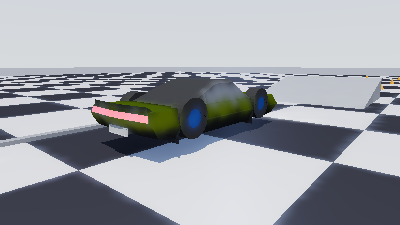
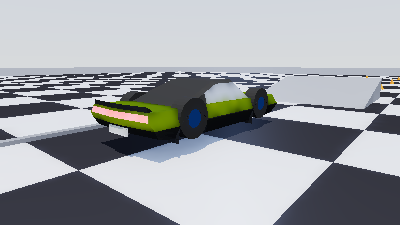
Improve Surfel GI: directional (SH) irradiance, receiving albedo, Fresnel reflections
Reported as not looking clean, against W298/SurfelGI as the reference. That
project implements GIBS (SIGGRAPH 2021); three things separated ours from it,
and the first two were outright bugs.

1. THE RECEIVING SURFACE'S ALBEDO WAS MISSING. Outgoing radiance from an
   indirect term is albedo/pi * irradiance, and ours was just irradiance/pi:

       ours        V indirect = gatherE(P,N) * INV_PI;
       ModeMatrix  lit = direct + dalb * INV_PI * E;

   So bounce light was added as a flat glow of identical colour and strength to
   every surface regardless of what it was made of. That alone reads as a wash
   over everything, and the proven CPU mirror sitting in RaytraceToggle/ had it
   right the whole time.

2. SURFELS STORED ONE FLAT RGB. GIBS stores DIRECTIONAL irradiance as L1
   spherical harmonics, 4 coefficients per channel. With a scalar the only
   directionality left is the dot(N, surfel.n) weight, so a surfel lights a
   wall and the floor beneath it identically -- exactly the uniform look over
   curved bodywork. Now projected into L1 SH on update and evaluated along the
   shading normal through the Lambert convolution (A0 = pi, A1 = 2pi/3).

   The update rays had to change with it: the projection needs a known pdf, so
   they are uniform-hemisphere (1/2pi) rather than cosine-weighted. Cosine
   samples would bake a second cosine into coefficients the convolution is
   about to apply again.
[…]

diff --git a/VehiclePhysics/Overlay/Projects/Project-Drive/Source/SurfelReference.cpp b/VehiclePhysics/Overlay/Projects/Project-Drive/Source/SurfelReference.cpp
@@ -233,11 +233,39 @@ static V DirectLight(const BVH& bvh, V P, V N, uint32_t mat, V wo){
     const vec3 e = m.Emission;
     return c + V{e.x,e.y,e.z};
 }
+static V hemiUniform(V N, float u1, float u2){ float z=u1, rr=std::sqrt(std::max(0.0f,1.0f-z*z)), th=2*PI*u2;
+    V t=norm(std::fabs(N.x)>0.9f?cross(N,{0,1,0}):cross(N,{1,0,0})); V b=cross(N,t);
+    return norm(t*(rr*std::cos(th))+b*(rr*std::sin(th))+N*z); }
 static V hemi(V N, float u1, float u2){ float r=std::sqrt(u1), th=2*PI*u2; V t=norm(std::fabs(N.x)>0.9f?cross(N,{0,1,0}):cross(N,{1,0,0})); V b=cross(N,t);
     return norm(t*(r*std::cos(th))+b*(r*std::sin(th))+N*std::sqrt(std::max(0.0f,1-u1))); }
 
 //------------------------------------------------------------------------------------------------------------------------ surfels
-struct Surfel{ V pos,n,albedo; float radius; V E{0,0,0},Enew{0,0,0}; uint32_t age=0; };
+// GIBS (SIGGRAPH 2021, the basis of the W298/SurfelGI reference) stores DIRECTIONAL irradiance per surfel as
+//    L1 spherical harmonics -- 4 coefficients per channel -- not a single RGB. That is the difference between
+//    a surfel that lights every nearby normal identically and one that lights a wall and the floor beneath it
+//    differently. With a flat value the only directionality left is the dot(N, surfel.n) weight, which is why
+//    the bounce reads as a uniform wash over curved bodywork.
+struct Sh3 { V c[4]{{0,0,0},{0,0,0},{0,0,0},{0,0,0}}; };
+inline Sh3 operator*(const Sh3& a, float k){ Sh3 r; for(int i=0;i<4;++i) r.c[i]=a.c[i]*k; return r; }
+inline Sh3 operator+(const Sh3& a, const Sh3& b){ Sh3 r; for(int i=0;i<4;++i) r.c[i]=a.c[i]+b.c[i]; return r; }
+
+struct Surfel{ V pos,n,albedo; float radius; Sh3 E, Enew; uint32_t age=0; };
+
+// Project a radiance sample arriving from direction d into L1 SH.
+inline void ShAccumulate(Sh3& sh, V d, V L, float w)
+{
+    sh.c[0] = sh.c[0] + L*(0.282095f*w);
+    sh.c[1] = sh.c[1] + L*(0.488603f*d.y*w);
+    sh.c[2] = sh.c[2] + L*(0.488603f*d.z*w);
+    sh.c[3] = sh.c[3] + L*(0.488603f*d.x*w);
+}
+
+// Evaluate irradiance along N, with the Lambert convolution (A0 = pi, A1 = 2pi/3).
+inline V ShIrradiance(const Sh3& sh, V N)
+{
+    const float A0=3.14159265f*0.282095f, A1=2.0943951f*0.488603f;
+    return sh.c[0]*A0 + sh.c[1]*(A1*N.y) + sh.c[2]*(A1*N.z) + sh.c[3]*(A1*N.x);
+}
 // Cell size is RMAX + eps so the 3x3x3 cell walk in gatherEcov cannot miss a contributing surfel.
 struct Grid{ float cell=0.701f; std::vector<std::vector<int>> cells; int nx,ny,nz; V lo;
     void build(V mn,V mx){ lo=mn; nx=std::max(1,(int)((mx.x-mn.x)/cell)+1); ny=std::max(1,(int)((mx.y-mn.y)/cell)+1); nz=std::max(1,(int)((mx.z-mn.z)/cell)+1);
@@ -305,7 +333,7 @@ int main(int argc,char**argv){
     const float RMIN=0.22f, RMAX=0.70f, RADFAC=0.055f, COVERAGE_TARGET=2.4f;
     const int   SPAWN_BUDGET=4000;
     auto radiusAt=[&](V P){ float d=len(P-cam.eye); return std::min(RMAX,std::max(RMIN,RADFAC*d)); };
-    auto gatherEcov=[&](V P,V N,float& covOut){ V e{0,0,0}; float wsum=0;
+    auto gatherEcov=[&](V P,V N,float& covOut){ Sh3 e; float wsum=0;
         // search 3x3x3 neighbourhood
         for(int dz=-1;dz<=1;++dz)for(int dy=-1;dy<=1;++dy)for(int dx=-1;dx<=1;++dx){
             V q=P+V{(float)dx,(float)dy,(float)dz}*grid.cell; int c=grid.index(q); if(c<0||c>=(int)grid.cells.size())continue;
@@ -319,7 +347,7 @@ int main(int argc,char**argv){
                 float planar=std::fabs(dot(d,S.n)); if(planar>S.radius*0.5f) continue;
                 float wd=1.0f-dist/S.radius; wd*=wd;                          // SQUARED falloff, as the shader
                 float w=wn*wd; e=e+S.E*w; wsum+=w; } }
-        covOut=wsum; return wsum>1e-4f? e*(1.0f/wsum): V{0,0,0}; };
+        covOut=wsum; return wsum>1e-4f? ShIrradiance(e*(1.0f/wsum), N) : V{0,0,0}; };
     auto gatherE=[&](V P,V N){ float c; return gatherEcov(P,N,c); };
     auto gatherCoverage=[&](V P,V N){ float c; gatherEcov(P,N,c); return c; };
 
@@ -336,7 +364,9 @@ int main(int argc,char**argv){
             if(cov>=COVERAGE_TARGET) continue;
             if(rr.f() > (1.0f-cov/COVERAGE_TARGET)*0.9f+0.1f) continue;
             Surfel s; s.pos=P; s.n=gN[i]; s.albedo=gA[i]; s.radius=radiusAt(P);
-            s.E=gatherE(P,gN[i]);   // WARM START from the existing field, so a new surfel never pops black
+            // WARM START, isotropically: the gather hands back irradiance, so invert the L0 term to seed a
+            //    flat SH of the same magnitude rather than letting a new surfel pop black.
+            { const V E0=gatherE(P,gN[i]); s.E.c[0]=E0*(1.0f/(3.14159265f*0.282095f)); }
             s.age=4u;
             --budget;
             sf.push_back(s); grid.add((int)sf.size()-1,P); } };
@@ -344,12 +374,18 @@ int main(int argc,char**argv){
     // one temporal step: each surfel casts hemisphere rays, gathers direct at the hit, running-mean into E
     auto temporal=[&](int frame){ int n=(int)sf.size();
         par(n,[&](int si){ Surfel& s=sf[si]; RNG r(hashi((uint32_t)si*2246822519u ^ (uint32_t)frame*3266489917u));
-            V acc{0,0,0}; for(int k=0;k<RAYS;++k){ V d=hemi(s.n,r.f(),r.f()); int ti; float t;
+            Sh3 sh; const float w=6.28318531f/(float)RAYS;   // uniform hemisphere: pdf = 1/2pi
+            for(int k=0;k<RAYS;++k){ V d=hemiUniform(s.n,r.f(),r.f()); int ti; float t; V L;
                 if(bvh.closest(s.pos+s.n*0.003f,d,1e4f,ti,t)){ V P=s.pos+d*t; V N=tris[ti].n; if(dot(N,d)>0)N=N*-1.0f;
-                    acc=acc+DirectLight(bvh,P,N,tris[ti].mat,d*-1.0f); }
-                else acc=acc+SkyColour(d); }
-            acc=acc*(1.0f/RAYS); acc=acc*s.albedo; // bounce carries the surfel's own albedo (color bleed)
-            s.Enew=acc; });
+                    L=DirectLight(bvh,P,N,tris[ti].mat,d*-1.0f); }
+                else L=SkyColour(d);
+                // Firefly clamp. One ray landing on the emissive tail lamp otherwise injects a bright blob that
+                //    the running mean then takes dozens of frames to forget -- visible as a lingering hot patch.
+                const float m=std::max(L.x,std::max(L.y,L.z)); const float kClamp=8.0f;
+                if(m>kClamp) L=L*(kClamp/m);
+                ShAccumulate(sh,d,L*s.albedo,w);   // the bounce carries the surfel's own albedo (colour bleed)
+            }
+            s.Enew=sh; });
         for(auto& s:sf){ s.age++; float a=1.0f/std::min(s.age,64u); s.E=s.E*(1.0f-a)+s.Enew*a; } };
 
     for(int f=0;f<FRAMES;++f){ spawnPass(f); temporal(f); }
@@ -382,12 +418,28 @@ int main(int argc,char**argv){
                 else reflection = SkyColour(R);
             }
             else reflection = SkyColour(R);   // sky dome along the mirror vector, no rays
-            // Weighted by the material's own specular response, so a rough tyre does not mirror like glass.
+            // Weighted by SCHLICK FRESNEL, not by the raw specular weight. The first version used
+            //    SpecularWeight * (1 - SpecularRoughness), which is ~0.9 for almost every material here, so
+            //    nine tenths of the sky dome was added to every surface in the scene and the frame washed out
+            //    to near-white. Reflectance at normal incidence is ~0.04 for a dielectric and only approaches
+            //    1 at grazing angles -- that angular falloff is the whole character of a reflection.
             const ShadingRecord& m = MaterialFor(gM[i]);
-            const float F = m.SpecularWeight * (1.0f - m.SpecularRoughness);
-            reflection = reflection * std::max(0.0f, F);
+            const float CosTheta = std::min(1.0f, std::fabs(dot(N, rd*-1.0f)));
+            const float Fc = (1.0f-CosTheta)*(1.0f-CosTheta)*(1.0f-CosTheta)*(1.0f-CosTheta)*(1.0f-CosTheta);
+            V F0{0.04f,0.04f,0.04f};
+            F0 = F0*(1.0f-m.Metalness) + V{m.BaseColor.x,m.BaseColor.y,m.BaseColor.z}*m.Metalness;
+            const V Fr = F0 + (V{1,1,1}-F0)*Fc;
+            const float Gloss = (1.0f-m.SpecularRoughness)*(1.0f-m.SpecularRoughness);
+            reflection = V{reflection.x*Fr.x, reflection.y*Fr.y, reflection.z*Fr.z} * Gloss;
         }
-        V indirect=gatherE(P,N)*INV_PI; // gathered irradiance -> outgoing radiance
+        // Indirect must be modulated by the material it LANDS on: outgoing = albedo/pi * irradiance. This
+        //    was missing, so bounce light was added as a flat glow of the same colour and strength to every
+        //    surface regardless of what it was made of -- which is most of why the GI read as a wash.
+        //    RaytraceToggle/CpuMirror/ModeMatrix.cpp has it right as `dalb*INV_PI*E`.
+        const ShadingRecord& mr = MaterialFor(gM[i]);
+        const V dalb{ mr.BaseColor.x*(1.0f-mr.Metalness), mr.BaseColor.y*(1.0f-mr.Metalness),
+                      mr.BaseColor.z*(1.0f-mr.Metalness) };
+        V indirect=dalb*(gatherE(P,N)*INV_PI);
         img[i]=direct+indirect+reflection;
         (void)x;(void)y; });
 
